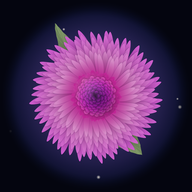
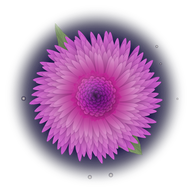
실행 화면 아이콘(any)을 투명 바탕으로: 꽃과 빛무리만 남기고 둘레는 투명 — 어떤 바탕 위에서도 네모 경계가 생기지 않게
Claude-Session: https://claude.ai/code/session_011uarRdNqR6YjqzYxG4Jp2E

diff --git a/index.html b/index.html
@@ -36,11 +36,11 @@
 </script>
 <meta name="viewport" content="width=device-width,initial-scale=1,viewport-fit=cover">
 <title>서천꽃밭</title>
-<link rel="manifest" href="manifest.webmanifest?v=4">
-<link rel="apple-touch-icon" href="apple-touch-icon.png?v=4">
-<link rel="icon" href="favicon.ico?v=4" sizes="any">
-<link rel="icon" type="image/png" sizes="32x32" href="favicon-32.png?v=4">
-<link rel="icon" type="image/png" sizes="192x192" href="icon-192.png?v=4">
+<link rel="manifest" href="manifest.webmanifest?v=5">
+<link rel="apple-touch-icon" href="apple-touch-icon.png?v=5">
+<link rel="icon" href="favicon.ico?v=5" sizes="any">
+<link rel="icon" type="image/png" sizes="32x32" href="favicon-32.png?v=5">
+<link rel="icon" type="image/png" sizes="192x192" href="icon-192.png?v=5">
 <meta name="theme-color" content="#04050f">
 <meta name="mobile-web-app-capable" content="yes">
 <meta name="apple-mobile-web-app-capable" content="yes">
